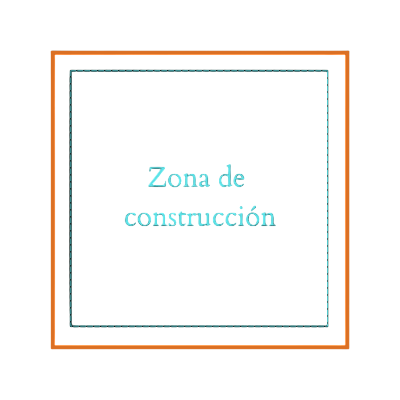
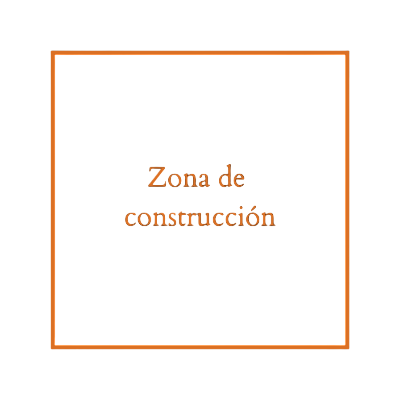
refactor build pfood page and images

diff --git a/gui/pages/food_build_page.py b/gui/pages/food_build_page.py
@@ -23,10 +23,10 @@ class FoodBuild:
         description_text = Text("Hoy conocerás la experiencia más innovadora que jámas hayas vivido en la historia de "
                                 "la gastronomía. Abre tu mente, y prepárate para disfrutar de unas deliciosas Tapas.",
                                 font_family="Cardo", size=24,
-                                color='#FFFFFF')
+                                color='#FFFFFF', text_align="justify")
 
         understood_button = ElevatedButton(
-            text="Aceptar",
+            text="Entendido",
             bgcolor='#DB7024',
             color='#FFFFFF',
             width=180,
@@ -40,8 +40,8 @@ class FoodBuild:
         step1_tittle = Text('Paso 1:', font_family='Brittany', size=48, color='#FFFFFF', weight='bold')
         step2_tittle = Text('Paso 2:', font_family='Brittany', size=48, color='#FFFFFF', weight='bold')
         step3_tittle = Text('Paso 3:', font_family='Brittany', size=48, color='#FFFFFF', weight='bold')
-        step1_description = Text("Toma la base de construcción que te entregaron en la entrada e identifica la zona "
-                                 "de creación demarcada con un rectángulo azul.",
+        step1_description = Text("Toma la base de la mesa e identifica la zona de construcción demarcada con un "
+                                 "rectángulo naranja.",
                                  font_family="Cardo", size=24,
                                  color='#FFFFFF')
         step2_description = Text("En esta zona debes ubicar las fichas que representan los deliciosos ingredientes "
@@ -59,21 +59,21 @@ class FoodBuild:
         step1 = Row(
             controls=[
                 step1_tittle,
-                Container(content=step1_description, width=850)
+                Container(content=step1_description, width=800)
             ], alignment='center',
             spacing=20
         )
         step2 = Row(
             controls=[
                 step2_tittle,
-                Container(content=step2_description, width=850)
+                Container(content=step2_description, width=800)
             ], alignment='center',
             spacing=20
         )
         step3 = Row(
             controls=[
                 step3_tittle,
-                Container(content=step3_description, width=850)
+                Container(content=step3_description, width=800)
             ], alignment='center',
             spacing=20
         )
@@ -108,7 +108,7 @@ class FoodBuild:
             ],
             alignment='center',
             horizontal_alignment='center',
-            spacing=20,
+            spacing=30,
             expand=True
         )
 
@@ -116,7 +116,7 @@ class FoodBuild:
             content=Row(
                 controls=[
                     Container(left_column, width=400),
-                    right_column,
+                    Container(right_column, width=950),
                 ],
                 alignment='spaceBetween',
                 vertical_alignment='center',
